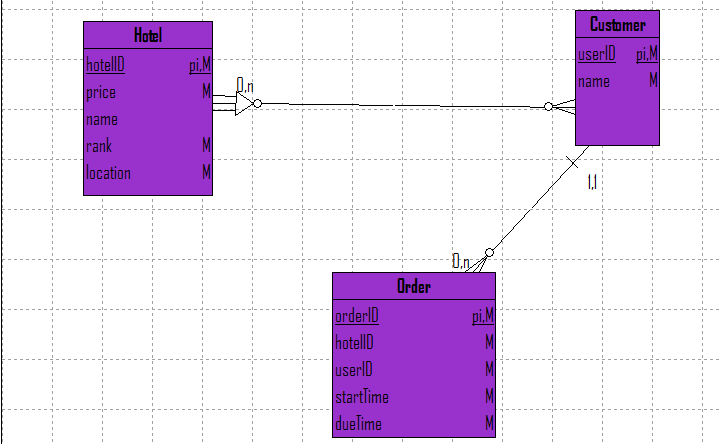
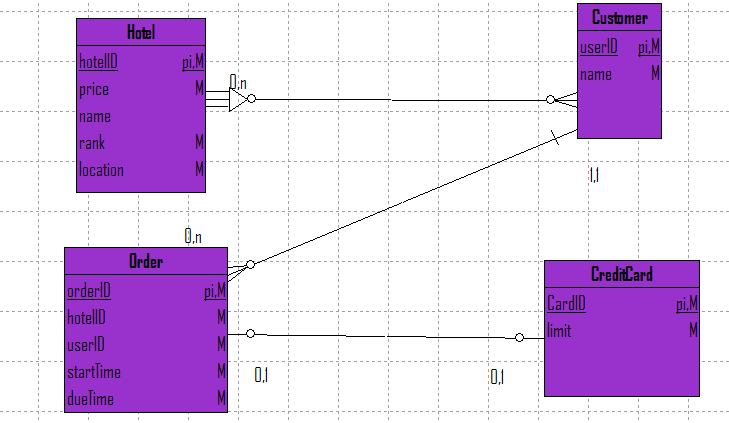
upgrade HW4

diff --git a/_posts/2018-4-16-系统分析与设计Hw-4.md b/_posts/2018-4-16-系统分析与设计Hw-4.md
@@ -21,6 +21,7 @@ tags: 博客
     name VARCHAR(15) NOT NULL,
     PRIMARY KEY (userID)
     );
+
     CREATE TABLE `Hotel`
     (
     hotelID INTEGER NOT NULL,
@@ -29,6 +30,13 @@ tags: 博客
     rank INTEGER NOT NULL,
     location VARCHAR(20) NOT NULL,
     PRIMARY KEY (hotelID)
+    );
+
+    CREATE TABLE `CreditCard`
+    (
+    CardID INTEGER NOT NULL,
+    limit INTEGER NOT NULL,
+    PRIMARY KEY (CardID)
     );
 
     CREATE TABLE `Order`
